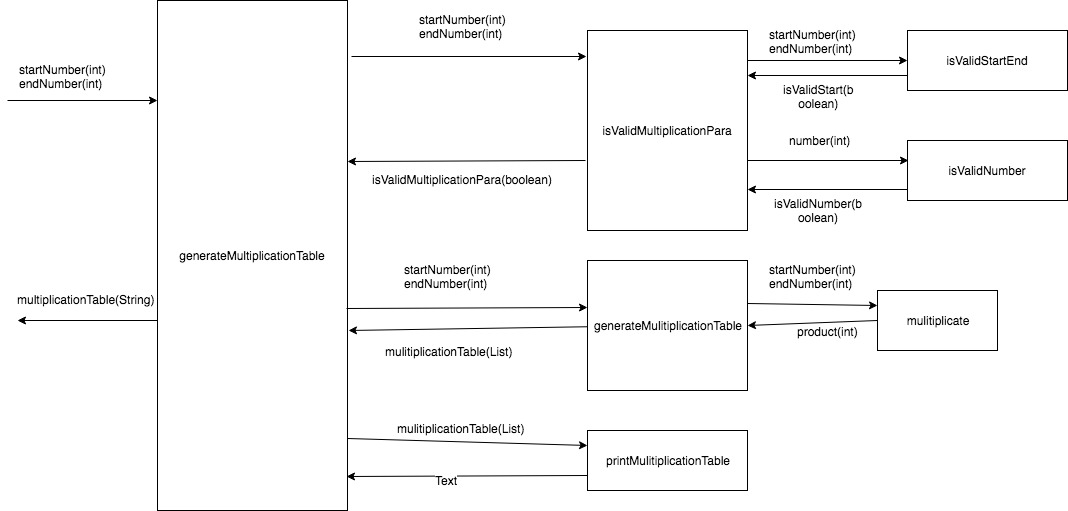
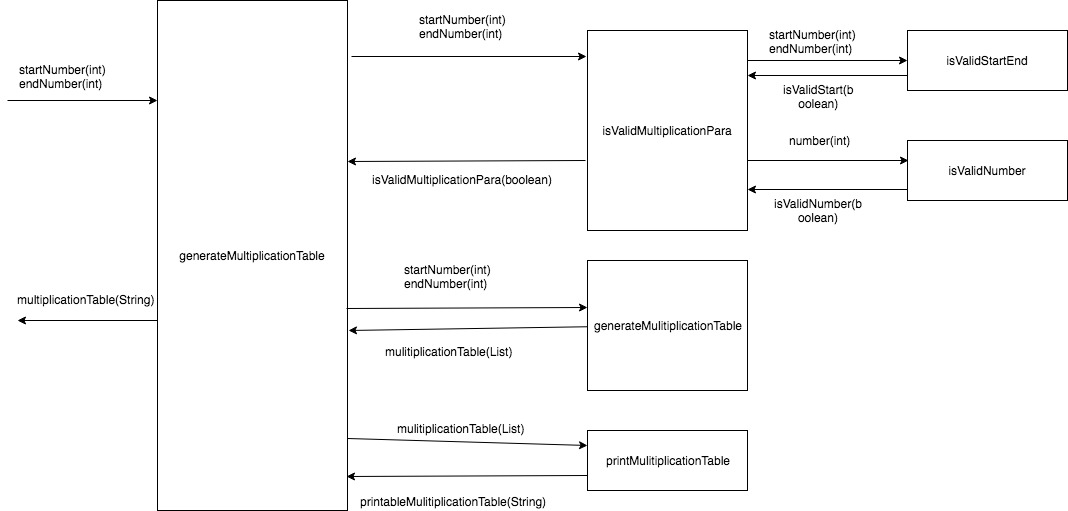
generate multiplication table

Changed region(s): [[0.7107, 0.499, 0.927, 0.6751], [0.3399, 0.91, 0.5253, 0.998]]

diff --git a/__tests__/multiplication-table-spec.js b/__tests__/multiplication-table-spec.js
@@ -1,4 +1,4 @@
-const {isValidStartEnd, isValidNumber, isValidMultiplicationPara} = require('../multiplication-table');
+const {isValidStartEnd, isValidNumber, isValidMultiplicationPara, generateMultiplicationTable} = require('../multiplication-table');
 
 describe('test start should less than or equal end', () => {
     it('should return true when start less than end', () => {
@@ -44,11 +44,11 @@ describe('test start and end are valid', () => {
     });
 
     it('should return false when start is -1, out of range', () => {
-        expect(isValidMultiplicationPara(-1, 4)).toBeTruthy();
+        expect(isValidMultiplicationPara(-1, 4)).toBeFalsy();
     });
 
     it('should return false when end is 1002, out of range', () => {
-        expect(isValidMultiplicationPara(2, 1002)).toBeTruthy();
+        expect(isValidMultiplicationPara(2, 1002)).toBeFalsy();
     });
 
     it('should return false when start is 4 and end is 2, misorder', () => {
@@ -56,4 +56,16 @@ describe('test start and end are valid', () => {
     });
 });
 
+describe('test generateMultiplicationTable', () => {
+    it('should return 1 line when start is 2 and end is 2', () => {
+        expect(generateMultiplicationTable(2, 2)[0]).toBe('2 * 2 = 4');
+    });
+
+    it('should return 2 line when start is 2 and end is 3', () => {
+        let multiplicationTable = generateMultiplicationTable(2, 3);
+        expect(multiplicationTable.length).toBe(2);
+        expect(multiplicationTable[0]).toBe('2 * 2 = 4');
+        expect(multiplicationTable[1]).toBe('2 * 3 = 6 3 * 3 = 9');
+    });
+});
 

diff --git a/multiplication-table.js b/multiplication-table.js
@@ -10,8 +10,26 @@ function isValidMultiplicationPara(start, end) {
     return isValidNumber(start) && isValidNumber(end) && isValidStartEnd(start, end);
 }
 
+function formatMultiplication(multiplicand, multiplier) {
+    const result = multiplicand * multiplier;
+    return `${multiplicand} * ${multiplier} = ${result}`
+}
+
+function generateMultiplicationTable(start, end) {
+    let multiplicationTable = [];
+    for(let i = start; i <= end; i++) {
+        let multiplicationTableLine = [];
+        for (let j = start; j <= i ; j++) {
+            multiplicationTableLine.push(formatMultiplication(j, i));
+        }
+        multiplicationTable.push(multiplicationTableLine.join(' '))
+    }
+    return multiplicationTable;
+}
+
 module.exports = {
     isValidStartEnd,
     isValidNumber,
-    isValidMultiplicationPara
+    isValidMultiplicationPara,
+    generateMultiplicationTable
 };
